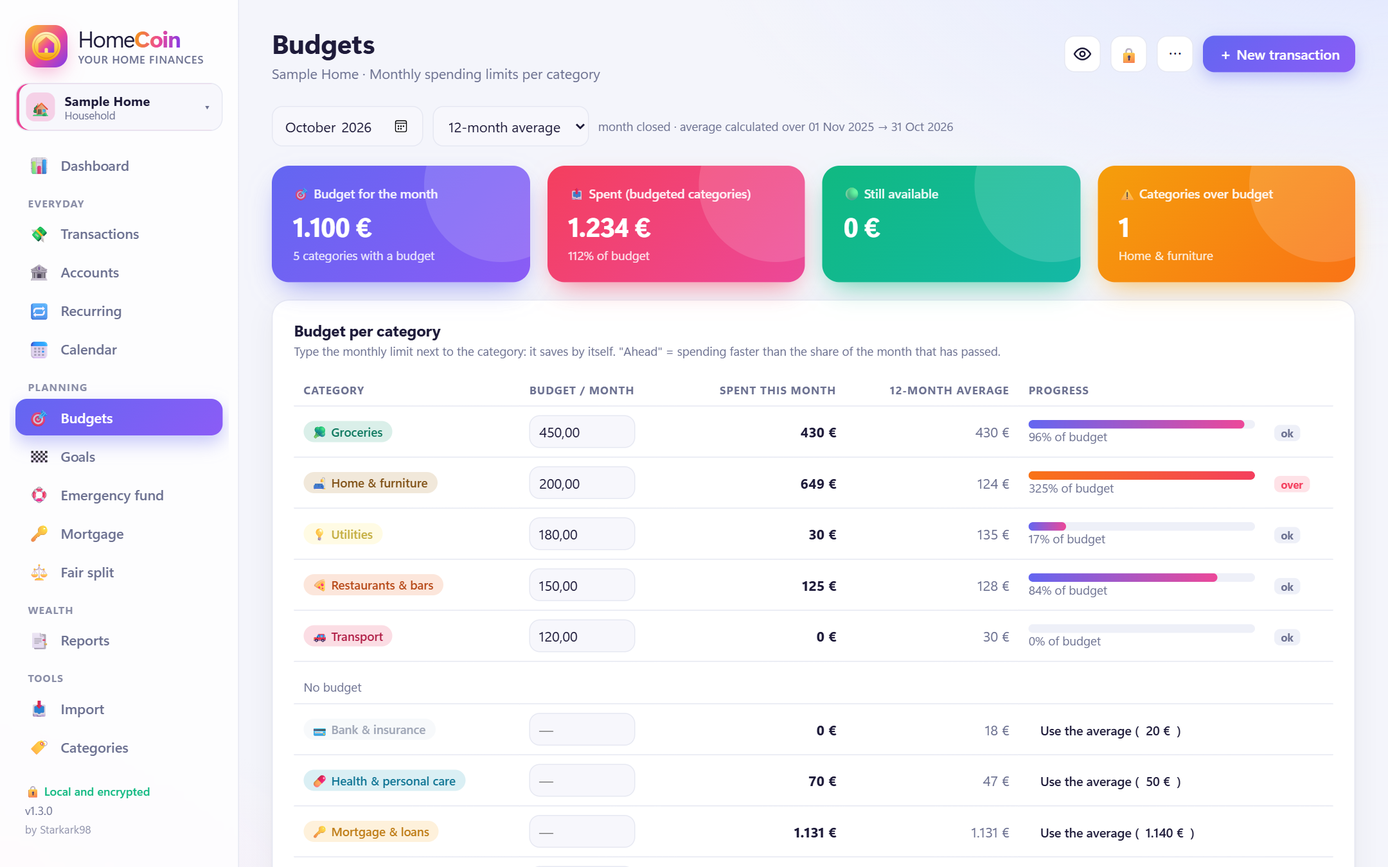
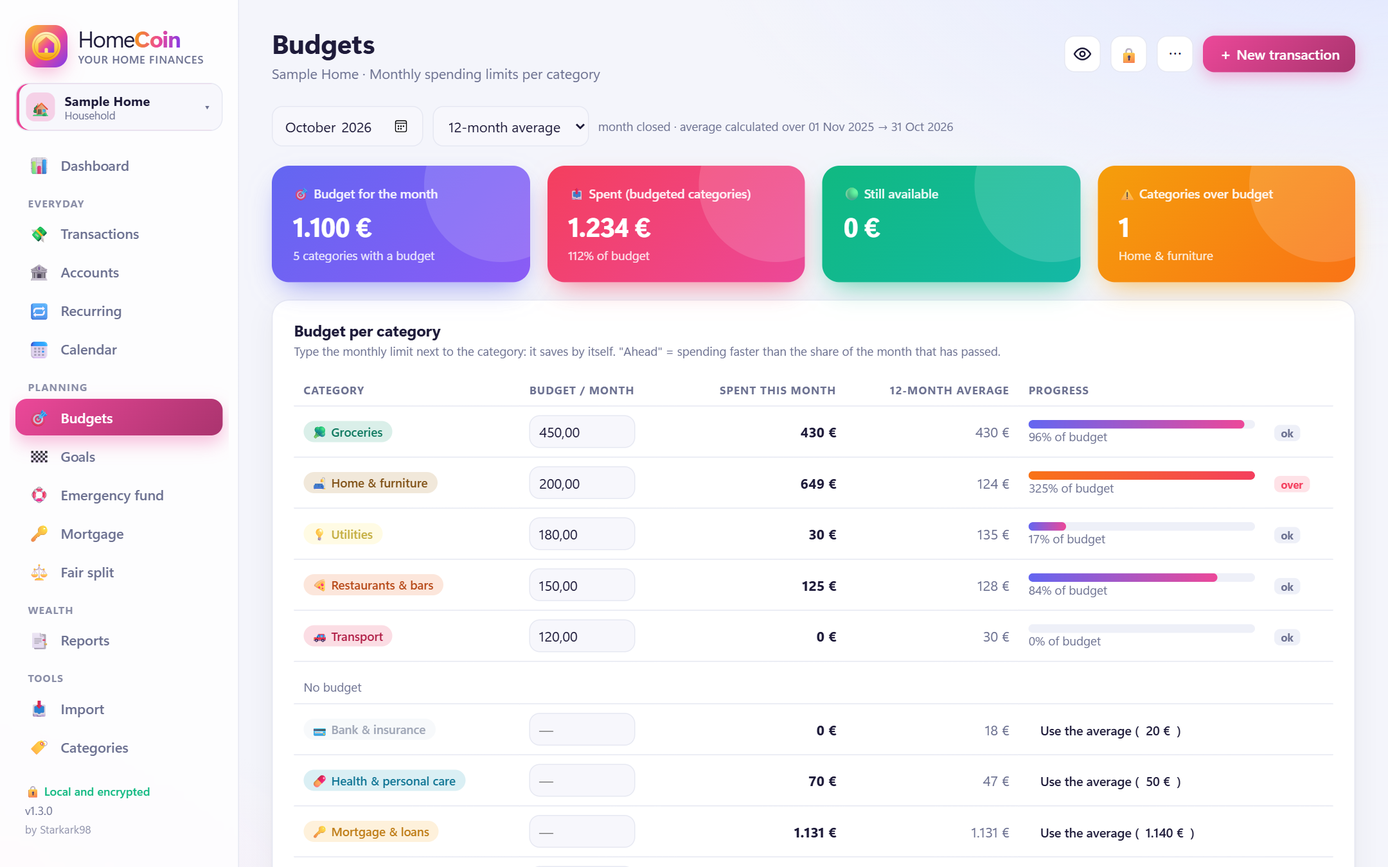
HomeCoin v1.3.1

Changed region(s): [[0.0, 0.4356, 0.1861, 0.5289], [0.8685, 0.0311, 0.9926, 0.0933]]

diff --git a/static/js/app.js b/static/js/app.js
@@ -379,6 +379,7 @@ const LOCK_VIEWS = {
 };
 async function unlocked() {
   document.body.classList.remove('locked');
+  $('#lock-body').innerHTML = '';  // the sign-in form (with the password typed) must not stay in the page once unlocked
   AUTH.lastInput = AUTH.lastPing = Date.now();
   resetPeriods();  // new sign-in: every tab goes back to "Last 12 months"
   if (location.hash && location.hash !== '#/') history.replaceState(null, '', '#/');  // always start again from the Dashboard
@@ -492,10 +493,22 @@ async function switchPortfolio(id) {
   const k = currentRoute().key;
   if (!featureOn(k)) location.hash = '#/dashboard';
   else route();
-  toast(`Space: ${S.portfolio.name}`, 'info');
+  toast(`${S.portfolio.icon} Space: ${S.portfolio.name}`, 'space');
+}
+// the color of the active space tints a few small accents (menu highlight, New transaction, the selected tab, the
+// space-switch message); warnings, amounts, charts and confirmations keep the same colors in every space.
+// Very light colors get dark text, so it stays readable
+function applySpaceColor(hex) {
+  const c = /^#[0-9a-f]{6}$/i.test(hex || '') ? hex : '#6366f1';
+  const lin = (v) => (v <= 0.03928 ? v / 12.92 : ((v + 0.055) / 1.055) ** 2.4);
+  const [r, g, b] = [1, 3, 5].map((i) => lin(parseInt(c.slice(i, i + 2), 16) / 255));
+  const st = document.documentElement.style;
+  st.setProperty('--space', c);
+  st.setProperty('--space-ink', 0.2126 * r + 0.7152 * g + 0.0722 * b > 0.5 ? '#1c1917' : '#ffffff');
 }
 function drawPortfolioSwitcher() {
   const p = S.portfolio;
+  applySpaceColor(p.color);
   $('#pf-switch').innerHTML = `<button class="pf-current" id="pf-btn" style="--pc:${esc(p.color)}">
       <span class="pf-ico">${esc(p.icon)}</span><span class="pf-txt"><b>${esc(p.name)}</b><small>${PF_TYPES[p.type][0]}</small></span><span class="pf-caret">▾</span></button>
     <div class="pf-menu hidden" id="pf-menu">
@@ -640,6 +653,24 @@ function separateStacks(cfg) {
   });
   return cfg;
 }
+// keep the cursor where it was when a page or a calculator redraws itself (e.g. after a recalculation): the field
+// with the same id (or the same data-k and class), its selection and what was being typed in it
+function snapFocus(root) {
+  const a = document.activeElement;
+  if (!a || a === document.body || !root.contains(a)) return null;
+  const sel = a.id ? `#${CSS.escape(a.id)}` : a.dataset.k != null ? `${a.classList[0] ? '.' + CSS.escape(a.classList[0]) : ''}[data-k="${CSS.escape(a.dataset.k)}"]` : null;
+  if (!sel) return null;
+  let start = null, end = null;
+  try { start = a.selectionStart; end = a.selectionEnd; } catch { /* not a text field */ }
+  return { sel, start, end, value: a.value, typing: a.tagName === 'INPUT' && !/checkbox|radio/.test(a.type) };
+}
+function restoreFocus(root, s) {
+  const el = s && root.querySelector(s.sel);
+  if (!el) return;
+  if (s.typing && el.value !== s.value) el.value = s.value;  // text typed while the calculation was running
+  el.focus({ preventScroll: true });
+  try { if (s.start != null) el.setSelectionRange(s.start, s.end); } catch { /* not a text field */ }
+}
 function chart(canvas, cfg) { const c = new Chart(canvas, maskChartConfig(separateStacks(cfg))); S.charts.push(c); return c; }
 function destroyCharts() { S.charts.forEach((c) => c.destroy()); S.charts = []; }
 const moneyAxis = { ticks: { callback: (v) => money0(v) } };
@@ -699,9 +730,11 @@ async function route() {
   $('#page-title').textContent = title;
   $('#page-sub').textContent = S.portfolio ? `${S.portfolio.name} · ${sub}` : sub;
   const v = $('#view');
+  const focus = snapFocus(v);
   v.innerHTML = '<div class="loading">Loading…</div>';
   try {
     await render(v, params);
+    restoreFocus(v, focus);
   } catch (e) {
     v.innerHTML = `<div class="card empty"><div class="big">😕</div><h3>Something went wrong</h3><p>${esc(e.message)}</p></div>`;
   }
@@ -2631,6 +2664,7 @@ async function rebalanceCard(det) {
         : res.needs_rebalance ? `⚠ Rebalancing needed · largest drift ${num(res.max_drift, 1)} points` : `✅ Within the thresholds · largest drift ${num(res.max_drift, 1)} points`;
     $('.rb-status', det).innerHTML = `<span class="tag ${res.has_targets ? (res.needs_rebalance ? 'warn' : 'ai') : ''}">${esc(status)}</span>`;
     const noTrades = res.has_targets && res.needs_rebalance && !cfg.sells && !res.contribution;
+    const focus = snapFocus(box);
     box.innerHTML = `<div class="rb-controls">
         <div class="seg" id="rb-mode">${[['class', 'By asset class'], ['security', 'By security']].map(([k, l]) => `<button data-m="${k}" class="${cfg.mode === k ? 'on' : ''}">${l}</button>`).join('')}</div>
         <div class="rb-accs">${res.accounts.map((a) => `<label class="check"><input type="checkbox" data-acc="${a.id}" ${!chosen || chosen.has(a.id) ? 'checked' : ''}> ${esc(a.icon)} ${esc(a.name)} <span class="muted small">${esc(money0(a.value))}</span></label>`).join('')}</div>
@@ -2692,6 +2726,7 @@ async function rebalanceCard(det) {
     $('#rb-clear', box).onclick = () => { cfg.targets[cfg.mode] = {}; calc(); };
     $('#rb-save', box).onclick = () => calc(true);
     if ($('#rb-drop', box)) $('#rb-drop', box).onclick = () => { res.missing.forEach((m) => delete cfg.targets[cfg.mode][m.key]); calc(); };
+    restoreFocus(box, focus);
   };
   try {
     ({ config: cfg, result: res } = await api('/investments/rebalance'));
@@ -3342,17 +3377,18 @@ async function offerFolderProtection() {
 function passwordModal() {
   const m = openModal('Change password', `<div class="form-grid">
       <label class="field full">Current password<input type="password" id="p-cur" autocomplete="current-password" autofocus></label>
-      <label class="field full">New password<input type="password" id="l-pw" autocomplete="new-password"></label>
-      <div class="full pw-meter"><span id="l-meter"></span></div>
-      <label class="field full">Confirm new password<input type="password" id="l-pw2" autocomplete="new-password"></label></div>
+      <label class="field full">New password<input type="password" id="p-new" autocomplete="new-password"></label>
+      <div class="full pw-meter"><span id="p-meter"></span></div>
+      <label class="field full">Confirm new password<input type="password" id="p-new2" autocomplete="new-password"></label></div>
     <p class="muted small">The data is not re-encrypted: only the protection of the key changes. The recovery key stays valid.</p>
     <div class="modal-foot"><button class="btn" data-no>Cancel</button><button class="btn btn-primary" id="p-go">Change password</button></div>`);
-  pwMeter($('#l-pw', m), $('#l-meter', m));
+  // fields of this dialog only (ids of their own): the sign-in screen has fields with other ids in the same page
+  pwMeter($('#p-new', m), $('#p-meter', m));
   $('[data-no]', m).onclick = closeModal;
-  $('#p-go').onclick = async () => {
+  $('#p-go', m).onclick = async () => {
     try {
-      checkNew($('#l-pw').value, $('#l-pw2').value);
-      await api('/auth/password', { method: 'POST', body: { current: $('#p-cur').value, password: $('#l-pw').value } });
+      checkNew($('#p-new', m).value, $('#p-new2', m).value);
+      await api('/auth/password', { method: 'POST', body: { current: $('#p-cur', m).value, password: $('#p-new', m).value } });
       closeModal(); toast('Password changed');
     } catch (err) { fail(err); }
   };
@@ -3362,9 +3398,9 @@ function recoveryModal(onDone) {
     <label class="field">Current password<input type="password" id="p-cur" autocomplete="current-password" autofocus></label>
     <div class="modal-foot"><button class="btn" data-no>Cancel</button><button class="btn btn-primary" id="p-go">Generate</button></div>`);
   $('[data-no]', m).onclick = closeModal;
-  $('#p-go').onclick = async () => {
+  $('#p-go', m).onclick = async () => {
     try {
-      const r = await api('/auth/recovery-key', { method: 'POST', body: { current: $('#p-cur').value } });
+      const r = await api('/auth/recovery-key', { method: 'POST', body: { current: $('#p-cur', m).value } });
       const m2 = openModal('Your new recovery key', `<p class="muted small">Save it in a safe place: it will not be shown again.</p>
         <div class="recovery-code">${esc(r.recovery_key)}</div>
         <div class="modal-foot"><button class="btn" id="k-copy">📋 Copy</button><button class="btn btn-primary" data-no>Done</button></div>`);

diff --git a/static/css/app.css b/static/css/app.css
@@ -113,13 +113,17 @@ h1, h2, h3, h4 { font-family: var(--font-display); margin: 0; letter-spacing: -.
 }
 .nav-group { margin: 12px 13px 3px; font-size: 10.5px; font-weight: 700; letter-spacing: .08em; text-transform: uppercase; color: var(--muted); opacity: .8; flex: none; }
 .nav-dot { width: 8px; height: 8px; border-radius: 50%; background: var(--primary-2); margin-left: auto; box-shadow: 0 0 0 3px color-mix(in srgb, var(--primary-2) 25%, transparent); display: inline-block; }
-.nav a.active .nav-dot { background: #fff; }
 .seg .nav-dot { margin-left: 6px; vertical-align: middle; }
 .nav a:hover { background: var(--surface-3); color: var(--text); }
+/* accents in the color of the active space (--space, set by applySpaceColor in app.js) */
+:root { --space: #6366f1; --space-ink: #ffffff; --space-fill: linear-gradient(135deg, var(--space), color-mix(in srgb, var(--space) 72%, #000)); }
 .nav a.active {
-  color: #fff; background: linear-gradient(135deg, var(--primary), var(--primary-2));
-  box-shadow: 0 8px 18px rgba(99,102,241,.35);
+  color: var(--space-ink); background: var(--space-fill);
+  box-shadow: 0 8px 18px color-mix(in srgb, var(--space) 35%, transparent);
 }
+.nav a.active .nav-dot { background: var(--space-ink); }
+#quick-add { color: var(--space-ink); background: var(--space-fill); box-shadow: 0 6px 16px color-mix(in srgb, var(--space) 35%, transparent); }
+#quick-add:hover { background: var(--space-fill); filter: brightness(1.06); box-shadow: 0 8px 22px color-mix(in srgb, var(--space) 45%, transparent); }
 .ni { font-size: 17px; width: 22px; text-align: center; }
 .sidebar-foot { margin-top: auto; display: flex; flex-direction: column; gap: 4px; padding: 10px; font-size: 12px; color: var(--muted); }
 .lock { color: var(--green); font-weight: 600; }
@@ -201,6 +205,7 @@ label.field { display: flex; flex-direction: column; gap: 6px; font-size: 12.5px
   font-weight: 650; color: var(--muted); cursor: pointer; white-space: nowrap;
 }
 .seg button.on { background: var(--surface); color: var(--text); box-shadow: var(--shadow); }
+.seg button.on:not([data-kind]) { box-shadow: inset 0 -3px 0 var(--space), var(--shadow); }  /* selected tab: a line in the space color */
 .seg button.on[data-kind="expense"] { color: #fff; background: linear-gradient(135deg, #f43f5e, #fb7185); }
 .seg button.on[data-kind="income"] { color: #fff; background: linear-gradient(135deg, #10b981, #34d399); }
 .seg button.on[data-kind="transfer"] { color: #fff; background: linear-gradient(135deg, #0ea5e9, #6366f1); }
@@ -622,6 +627,7 @@ code.path { font-size: 12px; background: var(--surface-3); padding: 3px 8px; bor
 }
 .toast.err { background: linear-gradient(135deg, #f43f5e, #e11d48); }
 .toast.info { background: linear-gradient(135deg, #6366f1, #8b5cf6); }
+.toast.space { background: var(--space-fill); color: var(--space-ink); }
 .toast.out { opacity: 0; transform: translateY(8px); }
 
 /* ------------------------------------------------------------ responsive */

diff --git a/homecoin/security.py b/homecoin/security.py
@@ -147,23 +147,51 @@ def check_password(pw):
 
 
 # ------------------------------------------------- data folder permissions (Windows)
-# SIDs independent of the Windows language: SYSTEM, Administrators (local administrators)
-_TRUSTED_SIDS = {"S-1-5-18", "S-1-5-32-544"}
+# Done with the Windows tools icacls and whoami, not PowerShell: on PCs where a company policy runs PowerShell in
+# "constrained language mode" (common on work PCs) the PowerShell way failed and the check said "cannot be checked".
+# SIDs are independent of the Windows language. SDDL short names and SIDs of the trusted accounts: SYSTEM,
+# Administrators, and "creator owner" / "owner rights" (they stand for the owner, i.e. your user)
+_TRUSTED_SIDS = {"S-1-5-18", "S-1-5-32-544", "S-1-3-0", "S-1-3-4"}
+_SDDL_SIDS = {"SY": "S-1-5-18", "BA": "S-1-5-32-544", "CO": "S-1-3-0", "OW": "S-1-3-4", "WD": "S-1-1-0",
+              "AU": "S-1-5-11", "BU": "S-1-5-32-545", "IU": "S-1-5-4", "NS": "S-1-5-20", "LS": "S-1-5-19",
+              "PU": "S-1-5-32-547", "BG": "S-1-5-32-546", "AN": "S-1-5-7"}
+_SID_NAMES = {"S-1-1-0": "Everyone", "S-1-5-11": "Authenticated Users", "S-1-5-32-545": "Users", "S-1-5-4": "Interactive users",
+              "S-1-5-20": "Network Service", "S-1-5-19": "Local Service", "S-1-5-32-547": "Power Users", "S-1-5-32-546": "Guests",
+              "S-1-5-7": "Anonymous logon"}
 
 
-def _ps(script, timeout=20):
-    """Windows PowerShell with no profile and no window; PSModulePath cleared (PowerShell 7's one breaks the modules)."""
+def _run(args, timeout=60):
+    """A Windows tool without a window; its output as text (raises if it fails)."""
     import subprocess
-    env = {k: v for k, v in os.environ.items() if k.upper() != "PSMODULEPATH"}
-    r = subprocess.run(["powershell", "-NoProfile", "-NonInteractive", "-Command", script], env=env,
-                       capture_output=True, text=True, timeout=timeout, creationflags=0x08000000)
+    r = subprocess.run(args, capture_output=True, timeout=timeout, creationflags=0x08000000)
     if r.returncode:
-        raise RuntimeError((r.stderr or r.stdout).strip()[:300])
-    return r.stdout
+        raise RuntimeError((r.stderr or r.stdout).decode(errors="replace").strip()[:300] or f"{args[0]} failed")
+    return r.stdout.decode(errors="replace")
 
 
-def _psq(path):
-    return "'" + str(path).replace("'", "''") + "'"
+def _my_sid():
+    import re
+    m = re.search(r"S-1-5-[\d-]+", _run(["whoami", "/user", "/fo", "csv", "/nh"]))
+    if not m:
+        raise RuntimeError("Windows user not found")
+    return m.group(0)
+
+
+def _allowed_sids(path):
+    """SIDs that the folder's permissions allow in (allow entries only), read with icacls in SDDL form."""
+    import re
+    import tempfile
+    with tempfile.TemporaryDirectory(prefix="hc-acl-") as td:
+        out = os.path.join(td, "acl.txt")
+        _run(["icacls", str(path), "/save", out, "/Q"])
+        with open(out, "rb") as f:  # UTF-16 little endian, with or without the byte order mark
+            sddl = f.read().decode("utf-16-le").lstrip("").strip().splitlines()[-1]
+    sids = []
+    for sid in re.findall(r"\(A;[^;]*;[^;]*;[^;]*;[^;]*;([^)]+)\)", sddl):
+        sid = _SDDL_SIDS.get(sid, sid)
+        if sid not in sids:
+            sids.append(sid)
+    return sids
 
 
 def data_dir_access(path=None):
@@ -172,51 +200,42 @@ def data_dir_access(path=None):
     if os.name != "nt":
         return None
     try:
-        out = _ps("$me = [Security.Principal.WindowsIdentity]::GetCurrent().User.Value; "
-                  f"$acl = (New-Object IO.DirectoryInfo {_psq(path or dbm.DATA_DIR)}).GetAccessControl(); "
-                  "foreach ($r in $acl.GetAccessRules($true, $true, [Security.Principal.SecurityIdentifier])) { "
-                  "$n = try { $r.IdentityReference.Translate([Security.Principal.NTAccount]).Value } catch { $r.IdentityReference.Value }; "
-                  "\"$($r.IdentityReference.Value)|$n|$me\" }")
+        me = _my_sid()
+        return [_SID_NAMES.get(s, s) for s in _allowed_sids(path or dbm.DATA_DIR) if s not in _TRUSTED_SIDS | {me}]
     except Exception:
         return None
-    others = []
-    for line in out.splitlines():
-        parts = line.strip().split("|")
-        if len(parts) == 3 and parts[0] not in _TRUSTED_SIDS | {parts[2]} and parts[1] not in others:
-            others.append(parts[1])
-    return others
 
 
 def restrict_data_dir(path=None):
     """Restrict the data folder to your user, SYSTEM and administrators. Permissions are set only on the
     folder; files inherit them (reset). Afterwards, check that keystore and database can still be read: otherwise
-    restore the previous permissions (inherited from C:\\Tools)."""
+    restore the previous permissions (inherited from the parent folder)."""
     if os.name != "nt":
         raise AuthError("Available on Windows only")
     d = Path(path or dbm.DATA_DIR)
-    q = _psq(d)
     try:
-        # folder permission list rewritten from scratch: no inheritance, no leftover explicit permissions,
-        # only the three allowed ones (inherited by files and subfolders); then the contents inherit from the folder again
-        _ps("$me = [Security.Principal.WindowsIdentity]::GetCurrent().User.Value; "
-            f"$di = New-Object IO.DirectoryInfo {q}; "
-            "$acl = New-Object Security.AccessControl.DirectorySecurity; "
-            "$acl.SetAccessRuleProtection($true, $false); "
-            "foreach ($sid in @($me, 'S-1-5-18', 'S-1-5-32-544')) { "
-            "$acl.AddAccessRule((New-Object Security.AccessControl.FileSystemAccessRule((New-Object Security.Principal.SecurityIdentifier $sid), "
-            "'FullControl', 'ContainerInherit,ObjectInherit', 'None', 'Allow'))) }; "
-            "$di.SetAccessControl($acl); "
-            f"& icacls (Join-Path {q} '*') /reset /T /C /Q | Out-Null; "
-            "if ($LASTEXITCODE -and (Get-ChildItem -LiteralPath $di.FullName -Force | Measure-Object).Count) { throw 'icacls (contents) failed' }",
-            timeout=90)
+        me = _my_sid()
+        # no inheritance from the parent folder, only the three allowed accounts (inherited by files and subfolders)…
+        _run(["icacls", str(d), "/inheritance:r", "/grant:r", f"*{me}:(OI)(CI)F", "*S-1-5-18:(OI)(CI)F",
+              "*S-1-5-32-544:(OI)(CI)F", "/Q"], timeout=90)
+        for sid in _allowed_sids(d):  # …and no other explicit permission left on the folder
+            if sid not in _TRUSTED_SIDS | {me}:
+                _run(["icacls", str(d), "/remove:g", f"*{sid}", "/Q"], timeout=90)
+        if any(d.iterdir()):  # the contents inherit from the folder again
+            _run(["icacls", str(d / "*"), "/reset", "/T", "/C", "/Q"], timeout=90)
         for f in [d / "keystore.json", d / "homecoin.db"]:
             if f.exists():
                 f.open("rb").close()
         probe = d / ".hc-probe"
         probe.write_bytes(b"ok")
         probe.unlink()
+        if data_dir_access(d):
+            raise RuntimeError("other accounts can still open the folder")
     except Exception as exc:
-        _ps(f"& icacls {q} /reset /T /C /Q | Out-Null", timeout=90)  # rollback: inherited permissions as before
+        try:  # rollback: permissions inherited from the parent folder, as before
+            _run(["icacls", str(d), "/reset", "/T", "/C", "/Q"], timeout=90)
+        except Exception:
+            pass
         raise RuntimeError(f"{exc} — permissions restored as before") from exc
     return data_dir_access(d)
 

diff --git a/homecoin/app.py b/homecoin/app.py
@@ -26,7 +26,7 @@ from . import updater
 from . import util
 from .util import FREQUENCIES, add_months, months_between, parse_date, parse_number, rule_matches
 
-VERSION = "1.3.0"
+VERSION = "1.3.1"
 STATIC_DIR = dbm.BASE_DIR / "static"
 KINDS = ("expense", "income", "transfer")
 ACCOUNT_TYPES = ("corrente", "risparmio", "credito", "prepagata", "contanti", "investimenti", "altro")

diff --git a/README.md b/README.md
@@ -2,7 +2,7 @@
 
 # HomeCoin *by Starkark98*
 
-![Version](https://img.shields.io/badge/version-1.3.0-8b5cf6)
+![Version](https://img.shields.io/badge/version-1.3.1-8b5cf6)
 ![Python](https://img.shields.io/badge/Python-3.12%20%7C%203.13%20%7C%203.14-3776AB?logo=python&logoColor=white)
 ![Platform](https://img.shields.io/badge/platform-Windows-0078D6)
 ![Data](https://img.shields.io/badge/data-encrypted%2C%20on%20your%20PC-16a34a)
@@ -180,6 +180,8 @@ A space is a separate set of books (a separate ledger) inside the same HomeCoin,
 
 - **One household space** for the shared account, plus **one personal space per person**.
 - Or just one personal space, if you manage only your own money.
+
+**Each space has its own color and icon.** The color tints a few small things, so you always see where you are: the highlighted page in the menu, the **＋ New transaction** button, the line under the selected tab and the message when you switch space. Everything that carries meaning (warnings, income and expenses, charts, buttons that confirm an action) looks the same in every space. You choose color and icon when you create or edit a space.
 
 The type matters: a *Household* space gets shared categories (mortgage, utilities, groceries, contributions) and the Fair split page; a *Personal* space gets personal categories and the Investments and Savings pages. You can change the pages later.
 
@@ -420,7 +422,7 @@ HomeCoin checks for updates at most once a day, after you sign in, and sends not
 - **Only your PC can reach it.** HomeCoin listens on `127.0.0.1` (the loopback address), which other computers cannot reach, and refuses requests coming from other websites.
 - **Encrypted data** (encryption at rest). The database and every backup are encrypted with AES-256. The key that unlocks them is itself locked by your password and by your recovery key (through a deliberately slow key derivation, scrypt, that makes guessing passwords very expensive), and stays in memory only while HomeCoin is unlocked.
 - **Locked by default.** When HomeCoin starts, nothing can be read until you enter the password; it locks again after inactivity.
-- **Your Windows folder.** Settings → Security checks whether other Windows users on the same PC could open your data folder and can restrict it to you.
+- **Your Windows folder.** Settings → Security checks whether other Windows users on the same PC could open your data folder (its access control list) and can restrict it to you, SYSTEM and the administrators with one click. It uses the standard Windows tools `icacls` and `whoami`, so it also works where a company policy restricts PowerShell.
 
 <details>
 <summary><b>Technical details</b> (for those who want to check)</summary>
@@ -451,6 +453,8 @@ HomeCoin checks for updates at most once a day, after you sign in, and sends not
 **My amounts look wrong after changing the currency.** HomeCoin never converts amounts: the currency is a label. Switch back in Settings → General if your accounts are in the other currency.
 
 **An imported row is marked "already present" but it isn't.** Tick it in the review step to import it anyway: HomeCoin flags rows with the same amount on the same account within 3 days.
+
+**The security check says the data folder is also accessible to other accounts.** It happens when the data is in a folder that other users of the PC can open (for example a folder you chose yourself under `C:\`). The data is encrypted anyway, but they could copy or delete it: click **🔒 Protect** next to the warning to restrict the folder to your Windows user. If anything goes wrong, the previous permissions are put back.
 
 **Where is my data, and how do I keep it safe?** See [Backups](#backups).
 
@@ -539,4 +543,4 @@ Any copy or modified version must keep the [LICENSE](LICENSE) file, including th
 
 ---
 
-*HomeCoin by **Starkark98** · v1.3.0 · see the [changelog](CHANGELOG.md)*
+*HomeCoin by **Starkark98** · v1.3.1 · see the [changelog](CHANGELOG.md)*

diff --git a/CLAUDE.md b/CLAUDE.md
@@ -1,6 +1,6 @@
 # CLAUDE.md — HomeCoin
 
-Guidance for Claude Code when working in this repository. Household finance app that runs locally on Windows: Python/Flask server on `127.0.0.1`, encrypted SQLCipher database, vanilla JS single-page UI. Current version: see `VERSION` in `homecoin/app.py` (1.3.0 at the time of writing).
+Guidance for Claude Code when working in this repository. Household finance app that runs locally on Windows: Python/Flask server on `127.0.0.1`, encrypted SQLCipher database, vanilla JS single-page UI. Current version: see `VERSION` in `homecoin/app.py` (1.3.1 at the time of writing).
 
 ## Hard rules
 
@@ -82,6 +82,8 @@ Key concepts:
 - **Database**: encrypted at rest, temp store in memory, `secure_delete`; automatic encrypted backup at the first unlock of every start (last 15); restore runs `migrate()`. `keystore.json` is read and written only through `security.read_keystore`/`write_keystore` (one lock + cache: on Windows `os.replace` fails while another thread has the file open).
 - **Updates** (1.2.1): `GET /api/update` (`?check=1` now, `?auto=1` at most every 20 h if `update_auto`), `PUT /api/update/settings`, `POST /api/update/apply` (session only: `/api/update*` is closed to the import code; backup `*-update.db` first; then exit via `HC_EXIT`, restart via `HC_RESTART` in tests). Settings keys `update_auto`, `update_checked`, `update_info` (global). UI: `loadUpdate()`, chip `#update-chip`, dot `#nav-update-dot`, Settings → Updates tab.
 - **UI layout** (1.2.1): sidebar groups Everyday / Planning / Wealth / Tools (`.nav-group`, hidden when empty); rare actions in the top-right **⋯** menu; Settings tabs `SETTINGS_TABS` (`#/impostazioni?tab=general|spaces|security|data|updates`). New settings go in the tab where a user would look for them; keep the top bar for daily actions only.
+- **Space color** (1.3.1): `applySpaceColor()` sets `--space`/`--space-ink`/`--space-fill`; used only for small "where am I" accents (active menu item, `#quick-add`, selected `.seg` tab line, `.toast.space`). Semantic colors (warnings, income/expense, charts, confirm buttons) never follow the space.
+- **Redraws keep the focus** (1.3.1): `snapFocus()`/`restoreFocus()` around `route()` and calculators that re-render their own inputs (rebalancing); give re-rendered inputs an id or `data-k` + class so they can be found again.
 - **Calculator warnings** (1.2.2): tools return `warnings`/`notes` lists of `{level: 'warn'|'info', text}` for what can make a result misleading (missing or stale prices, data gaps, inputs that cannot be acted on); the UI shows them with `calcNotes()`. Hard errors stay 400s; a new calculator gets both.
 - **Demo** (`homecoin/demo.py`): must keep showing every feature with made-up data; when a feature is added, add sample data for it. `GET /api/demo/statement.csv` (demo only) feeds Import → "Try it with a sample bank statement".
 
@@ -109,7 +111,7 @@ Key concepts:
 
 ## Known gaps
 
-- No automated tests in the repo: the maintainer keeps a regression + fuzz suite outside it (made-up data only); last full run on 1.3.0.
+- No automated tests in the repo: the maintainer keeps a regression + fuzz suite outside it (made-up data only); last full run on 1.3.1.
 - Automatic updates only work once the GitHub repository is public (the API returns 404 for a private one without a token) and for releases published with their signed manifest.
 - `util.STOPWORDS` contains Italian bank words only (adding English ones would change payee keys of existing data).
 - Activity-log rows written before the translation stay in Italian; old investment-plan notes may read half Italian, half English.

diff --git a/CHANGELOG.md b/CHANGELOG.md
@@ -2,7 +2,17 @@
 
 All notable changes to HomeCoin are listed here, newest first.
 
-## Unreleased
+## 1.3.1 — 2026-11-03
+
+**Smoother calculators**
+- After a recalculation the cursor stays where you were: in the rebalancing calculator (and on pages that reload after a change, like the emergency fund target) moving to the next field with Tab or a click no longer loses the focus, the selection or what you were typing.
+
+**Your space's color**
+- The color of the active space now tints a few small accents: the highlighted page in the menu, the **＋ New transaction** button, the line under the selected tab and the space-switch message. Warnings, amounts, charts and confirmations keep the same colors in every space; very light colors get dark text to stay readable.
+
+**Fixes**
+- **Change password** never accepted the confirmation: the dialog read the "new password" field of the sign-in screen (same name, hidden in the page) instead of its own. The dialog now uses only its own fields, and the sign-in form is cleared as soon as HomeCoin is unlocked, so the password typed to sign in no longer stays in the page.
+- **Security check → data folder**: on PCs where a company policy restricts PowerShell ("constrained language mode", common on work PCs) the check said "cannot be checked on this system" and *Restrict to my user* failed. Both now use the standard Windows tools `icacls` and `whoami`, which are not affected.
 
 **Guide**
 - `SECURITY.md`: supported version updated (1.3.x) and signed updates in the scope of reports.
